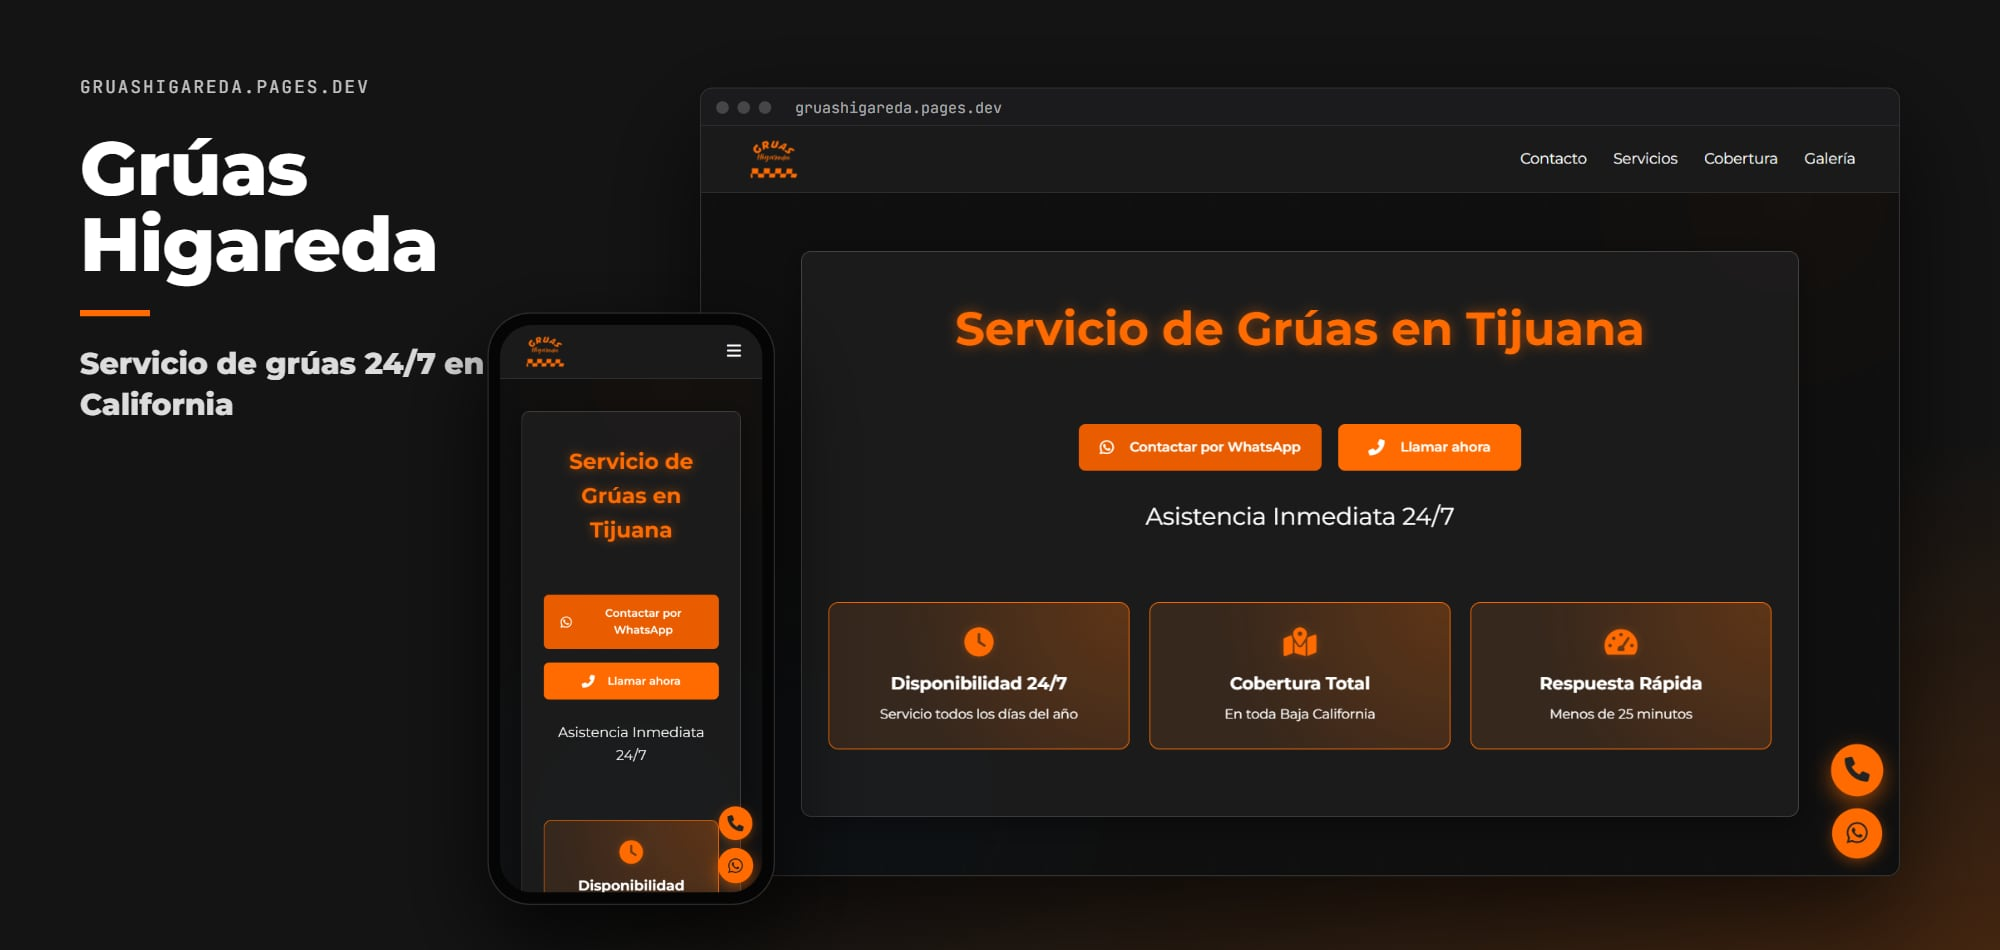
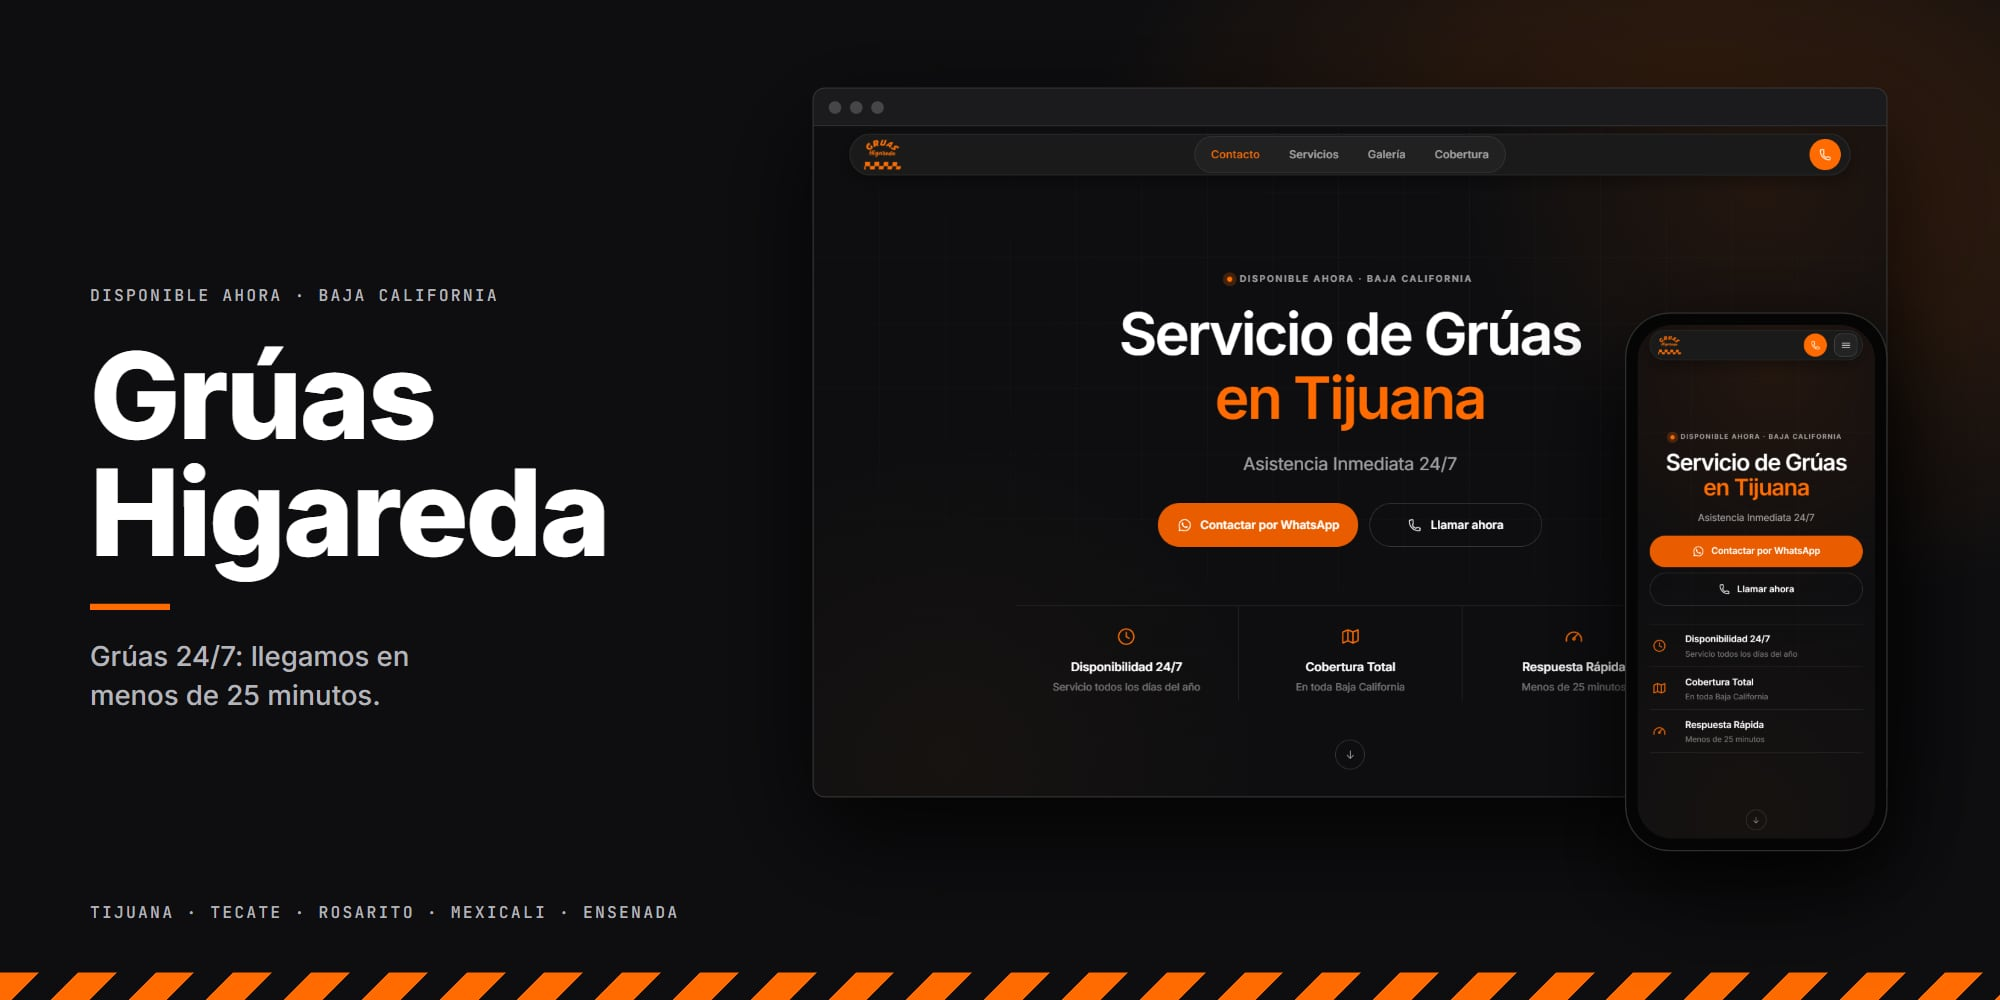
README: portadas por marca, capturas en celular y sin enlaces

diff --git a/README.md b/README.md
@@ -1,5 +1,5 @@
 <p align="center">
-  <img alt="Grúas Higareda — Servicio de grúas 24/7 en Baja California. Vista del sitio en computadora y celular" src="docs/img/portada.jpg" width="100%">
+  <img alt="Grúas Higareda: Servicio de grúas 24/7 en Baja California" src="docs/img/portada.jpg" width="100%">
 </p>
 
 <h1 align="center">Grúas Higareda</h1>
@@ -7,7 +7,6 @@
 <p align="center"><b>Servicio de grúas 24/7 en Baja California</b></p>
 
 <p align="center">
-  <a href="https://gruashigareda.pages.dev/"><b>Ver el sitio →</b></a><br><br>
   <img alt="HTML5" src="https://img.shields.io/badge/HTML5-e34f26?style=flat-square&logo=html5&logoColor=white">
   <img alt="CSS3" src="https://img.shields.io/badge/CSS3-663399?style=flat-square&logo=css&logoColor=white">
   <img alt="JavaScript" src="https://img.shields.io/badge/JavaScript-b8a200?style=flat-square&logo=javascript&logoColor=white">
@@ -16,58 +15,41 @@
 
 ## Sobre el proyecto
 
-Landing de **Grúas Higareda**: servicio de grúas 24/7 en Tijuana, Tecate, Rosarito, Mexicali y Ensenada, con traslados, maniobras y servicio pesado.
+Landing de **Grúas Higareda**, servicio de grúas 24/7 en Tijuana, Tecate, Rosarito, Mexicali y Ensenada. Rediseño con enfoque en contacto inmediato: llamada y WhatsApp siempre a la mano, tiempo de llegada de menos de 25 minutos y precios desde $800 MXN. El sitio está en español y en inglés.
 
-Es un sitio estático: HTML, CSS y JavaScript sin frameworks ni proceso de build.
+Es un sitio estático, hecho con HTML, CSS y JavaScript, sin frameworks ni proceso de build.
 
 ## Secciones
 
 | Sección | Contenido |
 | --- | --- |
-| **Contacto** | WhatsApp y llamada inmediata |
-| **Servicios** | Tipos de servicio |
-| **Cobertura** | Ciudades de Baja California |
-| **Galería** | Galería de fotos |
+| **Inicio** | Disponibilidad 24/7, cobertura en todo Baja California y respuesta en menos de 25 minutos |
+| **Servicios** | Traslados, maniobras, servicio pesado, abastecimiento de gasolina, pase de corriente y cambio de llanta |
+| **Galería** | La flota trabajando en carretera y ciudad |
+| **Cobertura** | Tijuana, Tecate, Rosarito, Mexicali y Ensenada |
+| **Contacto** | Llamada y WhatsApp con el servicio ya elegido |
 
-## Capturas
+## En computadora
 
 <p align="center">
-  <img alt="Grúas Higareda en computadora" src="docs/img/escritorio.jpg" width="72%">
-  &nbsp;
-  <img alt="Grúas Higareda en celular" src="docs/img/movil.jpg" width="22%">
+  <img alt="Grúas Higareda en computadora" src="docs/img/escritorio.jpg" width="100%">
+</p>
+
+## En celular
+
+<p align="center">
+  <img alt="Grúas Higareda en celular: tres pantallas" src="docs/img/celular.jpg" width="100%">
 </p>
 
 ## Tecnologías
 
-- HTML5, CSS3 y JavaScript, sin frameworks ni proceso de build.
-- Íconos de [Font Awesome](https://fontawesome.com/) (desde CDN).
-- Tipografía de Google Fonts (Montserrat).
+- HTML5, CSS3 y JavaScript.
 - Diseño adaptable a celular, tableta y computadora.
-- Publicado en **Cloudflare Pages**.
-
-## Estructura
-
-```
-GruasHigareda/
-├── docs/                       # Imágenes de este README
-├── Imagenes/
-├── index.html                  # Página principal
-├── Logo.ico
-├── Logo.png
-├── script.js                   # Interacciones (menú, animaciones)
-└── styles.css                  # Estilos
-```
-
-## Correr en local
-
-No necesita instalar nada. Abre `index.html` en el navegador, o sírvelo desde la carpeta del repo:
-
-```bash
-python -m http.server 8000
-```
-
-y entra a <http://localhost:8000>.
+- Íconos SVG en línea, sin librerías externas.
+- Tipografía de Google Fonts: Inter.
+- Versión en español y en inglés, enlazadas con `hreflang`.
+- SEO técnico: datos estructurados de negocio local con sus servicios, `robots.txt` y `sitemap.xml`.
 
 ## Créditos
 
-Desarrollado por [@Salereee](https://github.com/Salereee). Logotipos, fotografías y textos del negocio pertenecen a Grúas Higareda.
+Desarrollado por Salereee. Logotipos, fotografías y textos del negocio pertenecen a Grúas Higareda.
